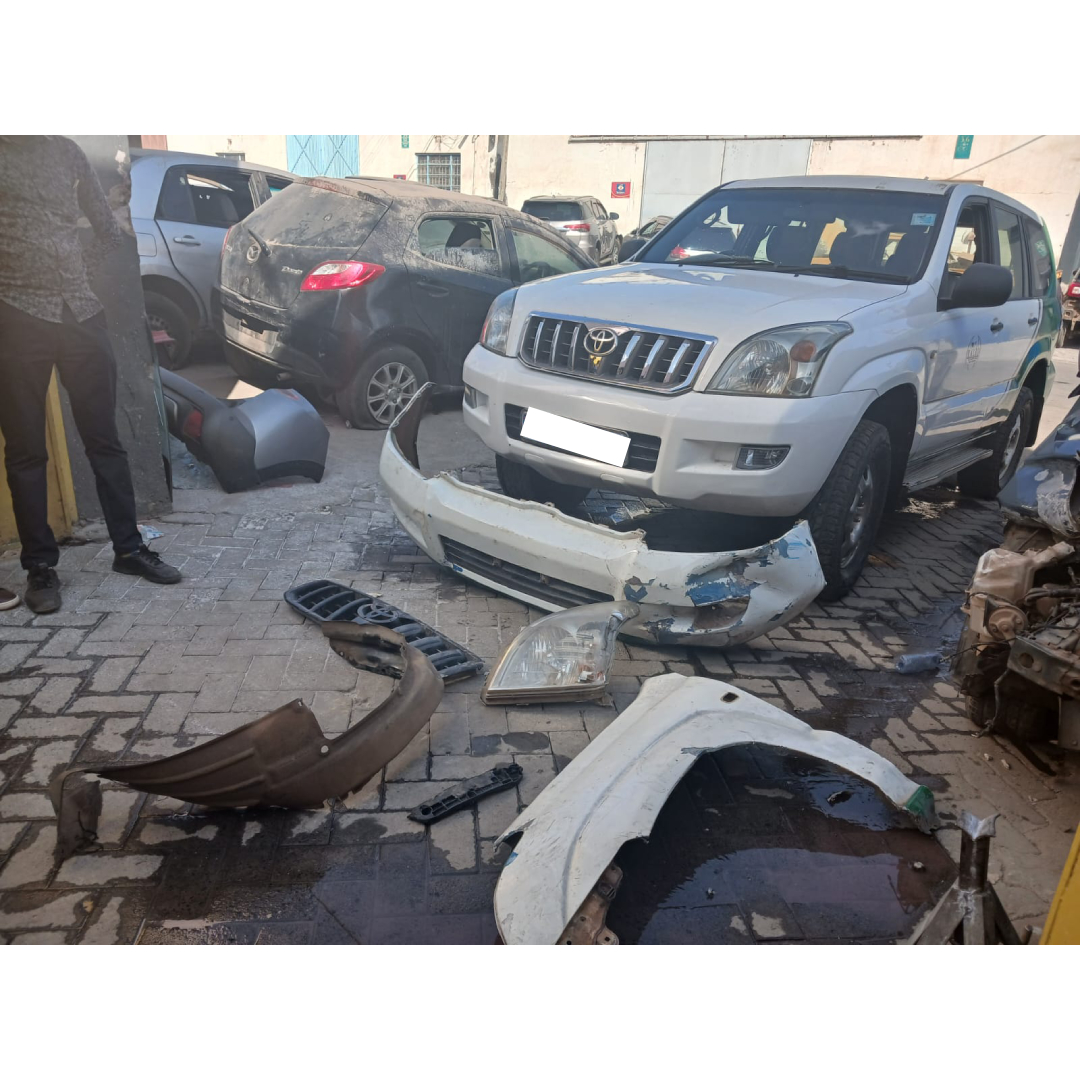
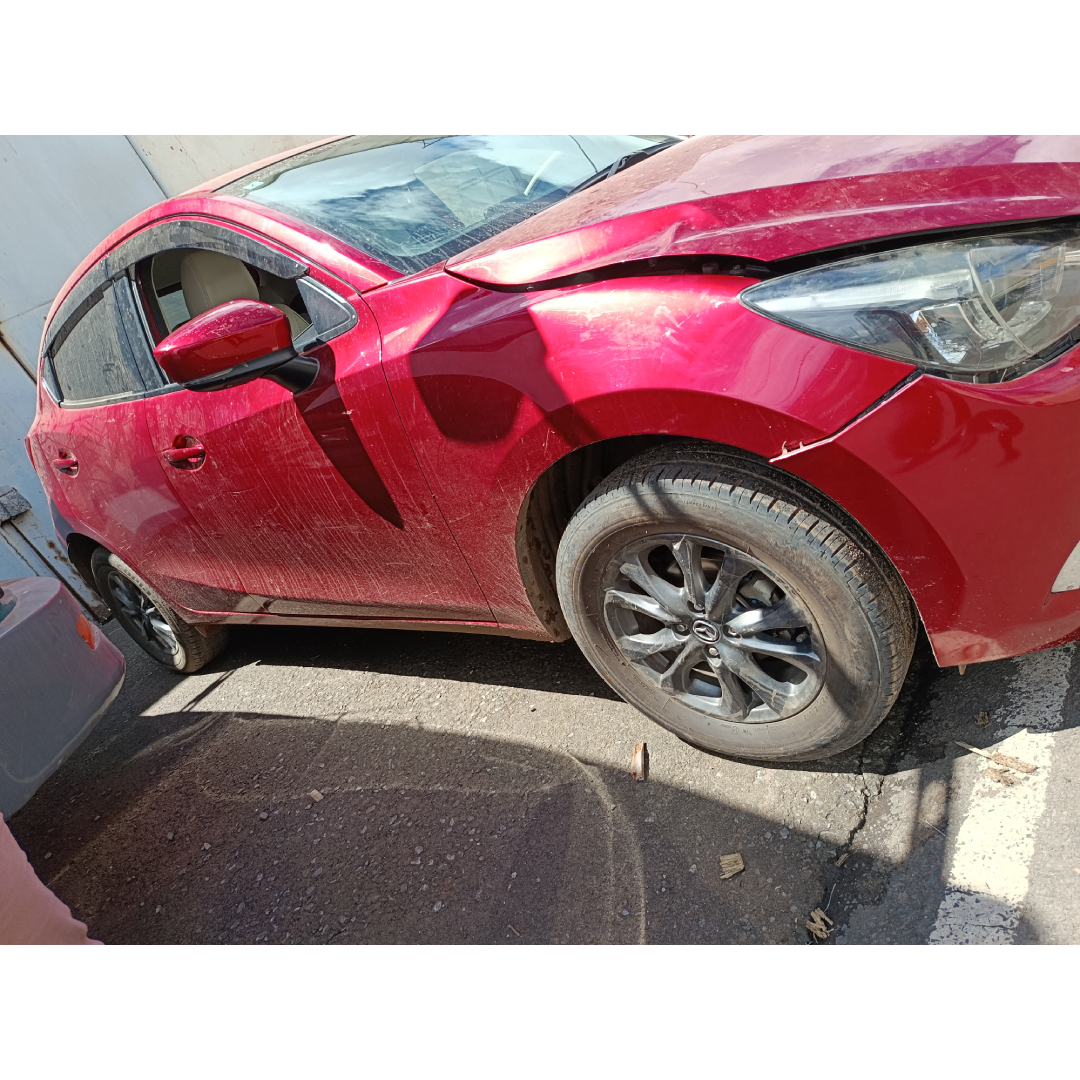
Replaced images in gallery

diff --git a/gallery.html b/gallery.html
@@ -340,11 +340,15 @@
         before: [
           { src: 'assets/images/gallery/04/before/01.jpg', alt: 'missing image' },
           { src: 'assets/images/gallery/04/before/02.jpg', alt: 'missing image' },
-          { src: 'assets/images/gallery/04/before/03.jpg', alt: 'missing image' }
+          { src: 'assets/images/gallery/04/before/03.jpg', alt: 'missing image' },
+          { src: 'assets/images/gallery/04/before/04.jpg', alt: 'missing image' },
+          { src: 'assets/images/gallery/04/before/05.jpg', alt: 'missing image' }
         ],
         after: [
           { src: 'assets/images/gallery/04/after/01.jpg', alt: 'missing image' },
-          { src: 'assets/images/gallery/04/after/02.jpg', alt: 'missing image' }
+          { src: 'assets/images/gallery/04/after/02.jpg', alt: 'missing image' },
+          { src: 'assets/images/gallery/04/after/03.jpg', alt: 'missing image' },
+          { src: 'assets/images/gallery/04/after/04.jpg', alt: 'missing image' }
         ]
       },
       {
